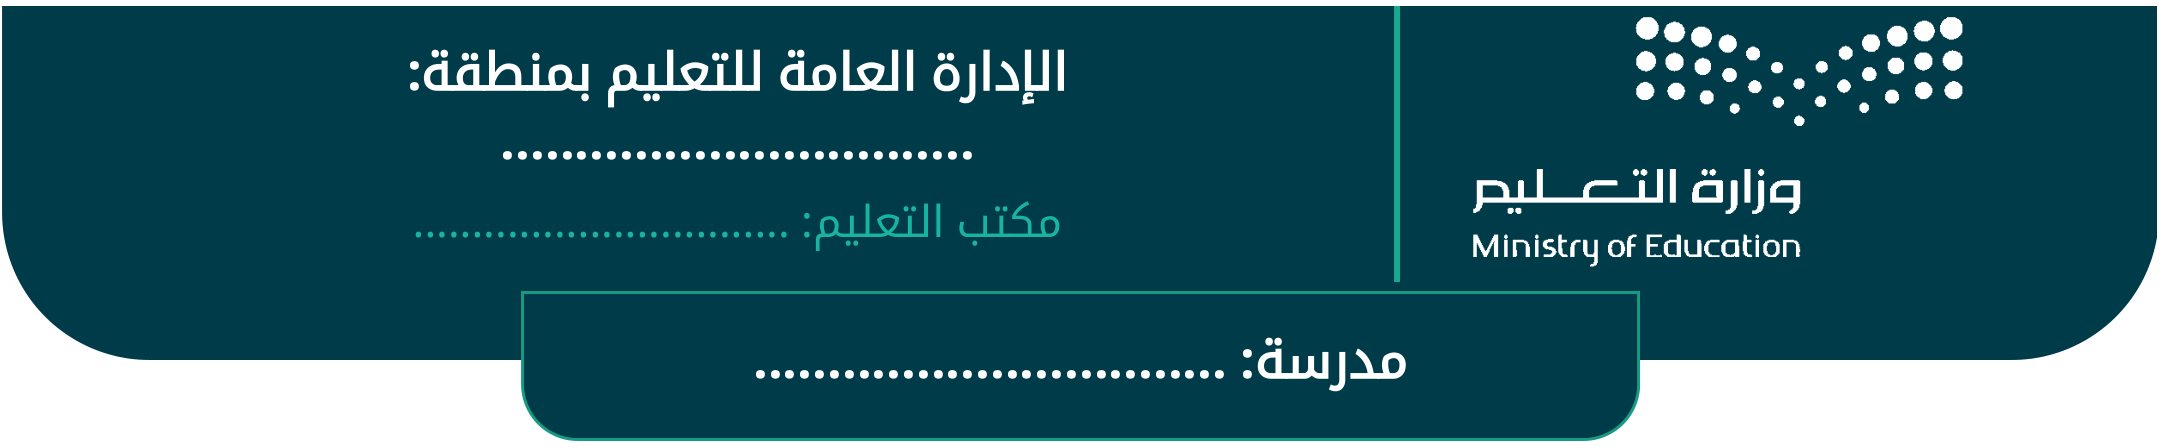
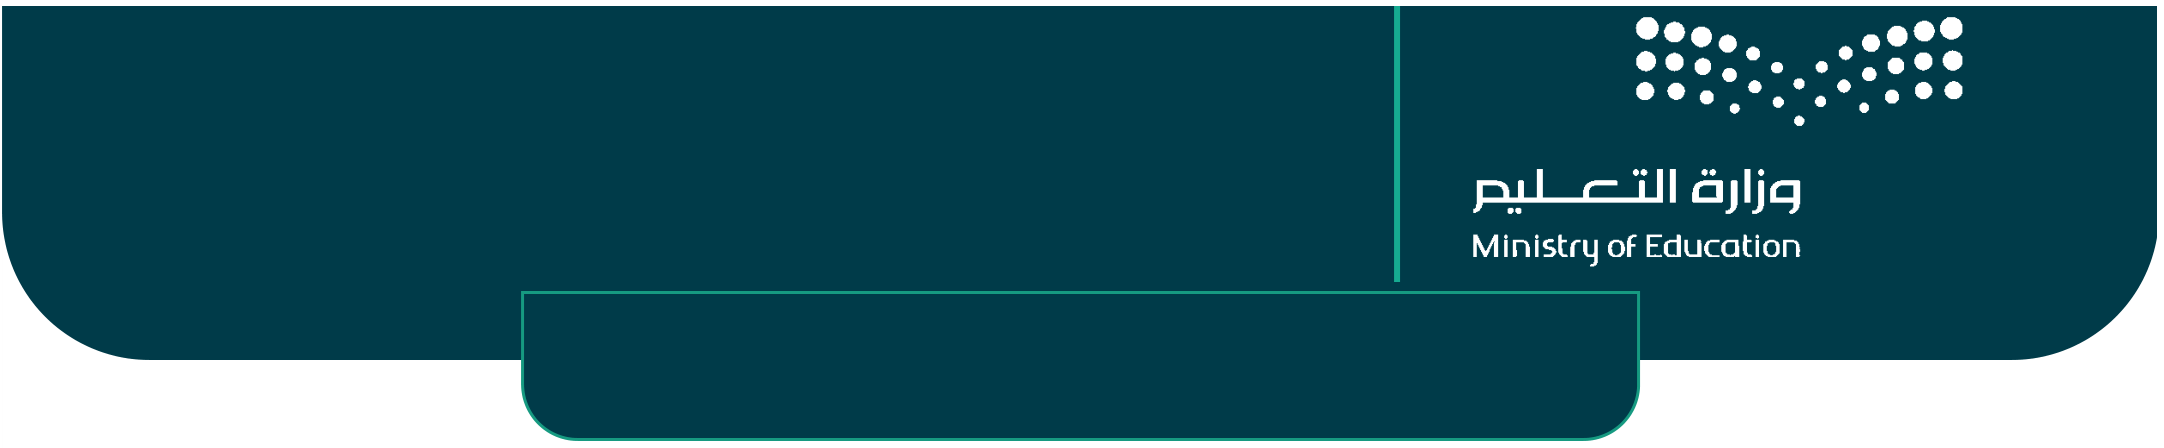
Fix accountability header PDF layout

diff --git a/src/SchoolFeatures.tsx b/src/SchoolFeatures.tsx
@@ -81,10 +81,10 @@ export function openOfficialFormDocument(title: string, contents: string) {
   </style><style>
     .moe-header{position:relative;width:100%;aspect-ratio:541/112;margin:0 0 3mm;direction:rtl}
     .moe-header-template{position:absolute;inset:0;display:block;width:100%;height:100%}
-    .moe-header-region,.moe-header-office,.moe-header-school{position:absolute;display:grid;place-items:center;overflow:hidden;text-align:center;white-space:nowrap;font-family:"Traditional Arabic","Times New Roman",serif;font-weight:700}
-    .moe-header-region{top:22%;left:22%;width:23%;height:20%;background:#003b49;color:#fff;font-size:12pt}
-    .moe-header-office{top:40%;left:19%;width:18.4%;height:19%;background:#003b49;color:#1bb5aa;font-size:11pt}
-    .moe-header-school{top:69%;left:34.5%;width:23.2%;height:20%;background:#003b49;color:#fff;font-size:12pt}
+    .moe-header-region,.moe-header-office,.moe-header-school{position:absolute;display:grid;place-items:center;overflow:hidden;text-align:center;white-space:nowrap;direction:rtl;font-family:"Traditional Arabic","Times New Roman",serif;font-weight:700}
+    .moe-header-region{top:8%;left:7%;width:55%;height:27%;color:#fff;font-size:11pt}
+    .moe-header-office{top:40%;left:9%;width:42%;height:19%;color:#1bb5aa;font-size:11pt}
+    .moe-header-school{top:69%;left:29%;width:39%;height:22%;color:#fff;font-size:11pt}
   </style><style>
     .preview-actions{position:fixed;z-index:1000;top:8px;left:8px;right:8px;display:flex;justify-content:center;gap:8px;padding:8px;background:rgba(15,23,42,.92);border-radius:10px;font-family:Tahoma,Arial,sans-serif}
     .preview-actions button{min-height:42px;padding:8px 16px;border:0;border-radius:7px;background:#fff;color:#123b63;font:700 14px Tahoma,Arial,sans-serif}

diff --git a/src/LessonFlow.tsx b/src/LessonFlow.tsx
@@ -305,9 +305,9 @@ function incidentPrintHtml(
   return `<main class="sheet">
     <header class="moe-header">
       <img class="moe-header-template" src="${headerUrl}" alt="ترويسة وزارة التعليم">
-      <span class="moe-header-region">${administrationName}</span>
-      <span class="moe-header-office">${officeName}</span>
-      <span class="moe-header-school">${escapeHtml(schoolName)}</span>
+      <span class="moe-header-region">الإدارة العامة للتعليم بمنطقة: ${administrationName}</span>
+      <span class="moe-header-office">مكتب التعليم: ${officeName}</span>
+      <span class="moe-header-school">مدرسة: ${escapeHtml(schoolName)}</span>
     </header>
     <div class="form-code">نموذج رقم (18)<br><span class="code">رمز النموذج: (و.م.ع.ن - 02 - 02)</span></div>
     <h1 class="form-title">تنبيه عن تأخر / انصراف</h1>
